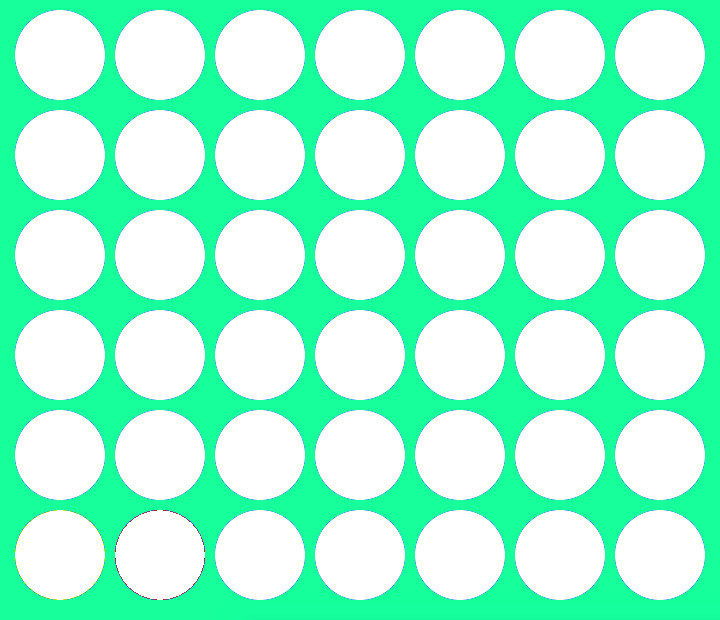
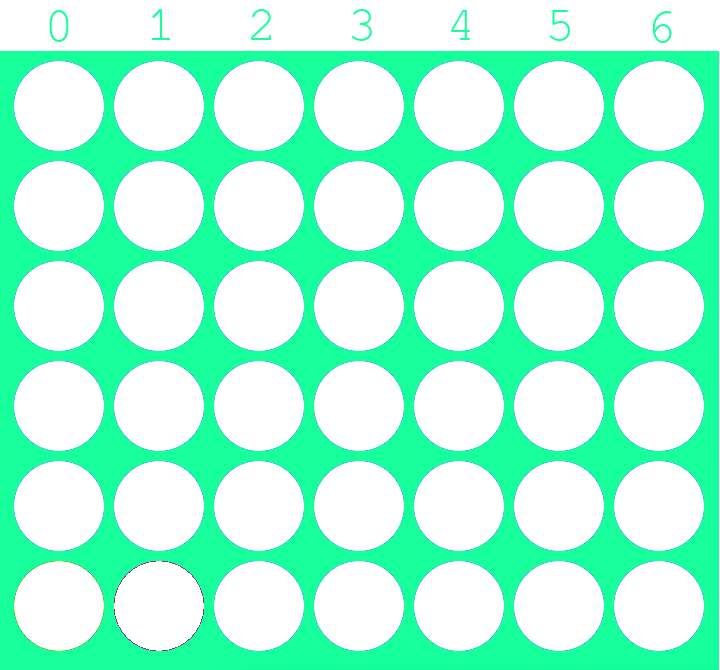
Add column numbering and render draw

diff --git a/render.py b/render.py
@@ -5,6 +5,7 @@ class Render:
     player2_path = 'res/player2.png'
     winner1_path = 'res/winner1.png'
     winner2_path = 'res/winner2.png'
+    draw_path = 'res/draw.png'
     board_path = 'res/bg.png'
         
     def __init__(self):
@@ -12,13 +13,14 @@ class Render:
         self.player2_image = Image.open(Render.player2_path)
         self.winner1_image = Image.open(Render.winner1_path)
         self.winner2_image = Image.open(Render.winner2_path)
+        self.draw_image = Image.open(Render.draw_path)
         self.board_image = Image.open(Render.board_path)
     
     def __line_pixel_transform(self, line):
         return line * 100 + 15
 
     def __coll_pixel_transform(self, coll):
-        return coll * 100 + 10
+        return coll * 100 + 60
 
     def render_matrix(self, matrix, winner = 0):
         '''
@@ -45,6 +47,8 @@ class Render:
             bg.paste(self.winner1_image.copy(), (0, 0), self.winner1_image)
         elif winner == 2:
             bg.paste(self.winner2_image.copy(), (0, 0), self.winner2_image)
+        elif winner == -1:
+            bg.paste(self.draw_image.copy(), (0, 0), self.draw_image)
 
         return bg
 
@@ -64,3 +68,4 @@ if __name__ == "__main__":
     r.render_matrix(matrix).show()
     r.render_matrix(matrix, 1).show()
     r.render_matrix(matrix, 2).show()
+    r.render_matrix(matrix, -1).show()
